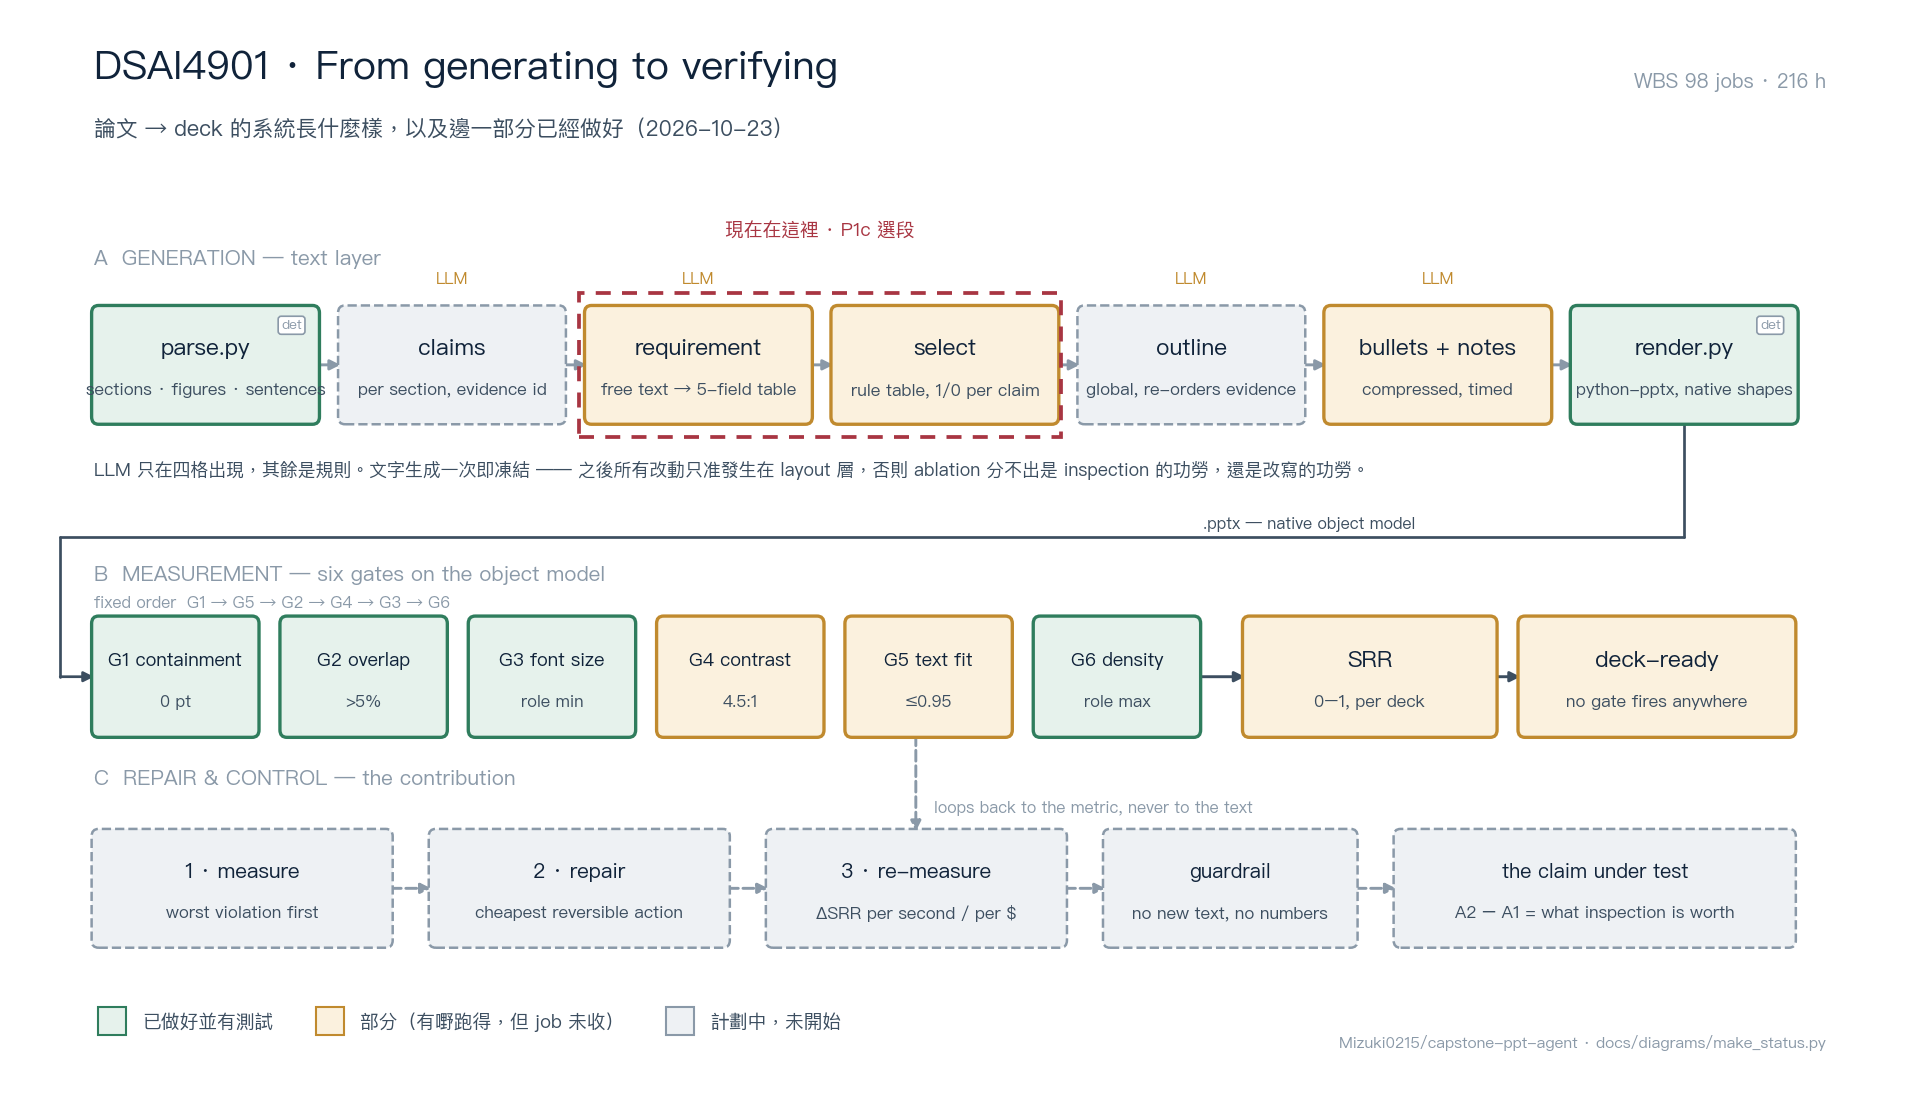
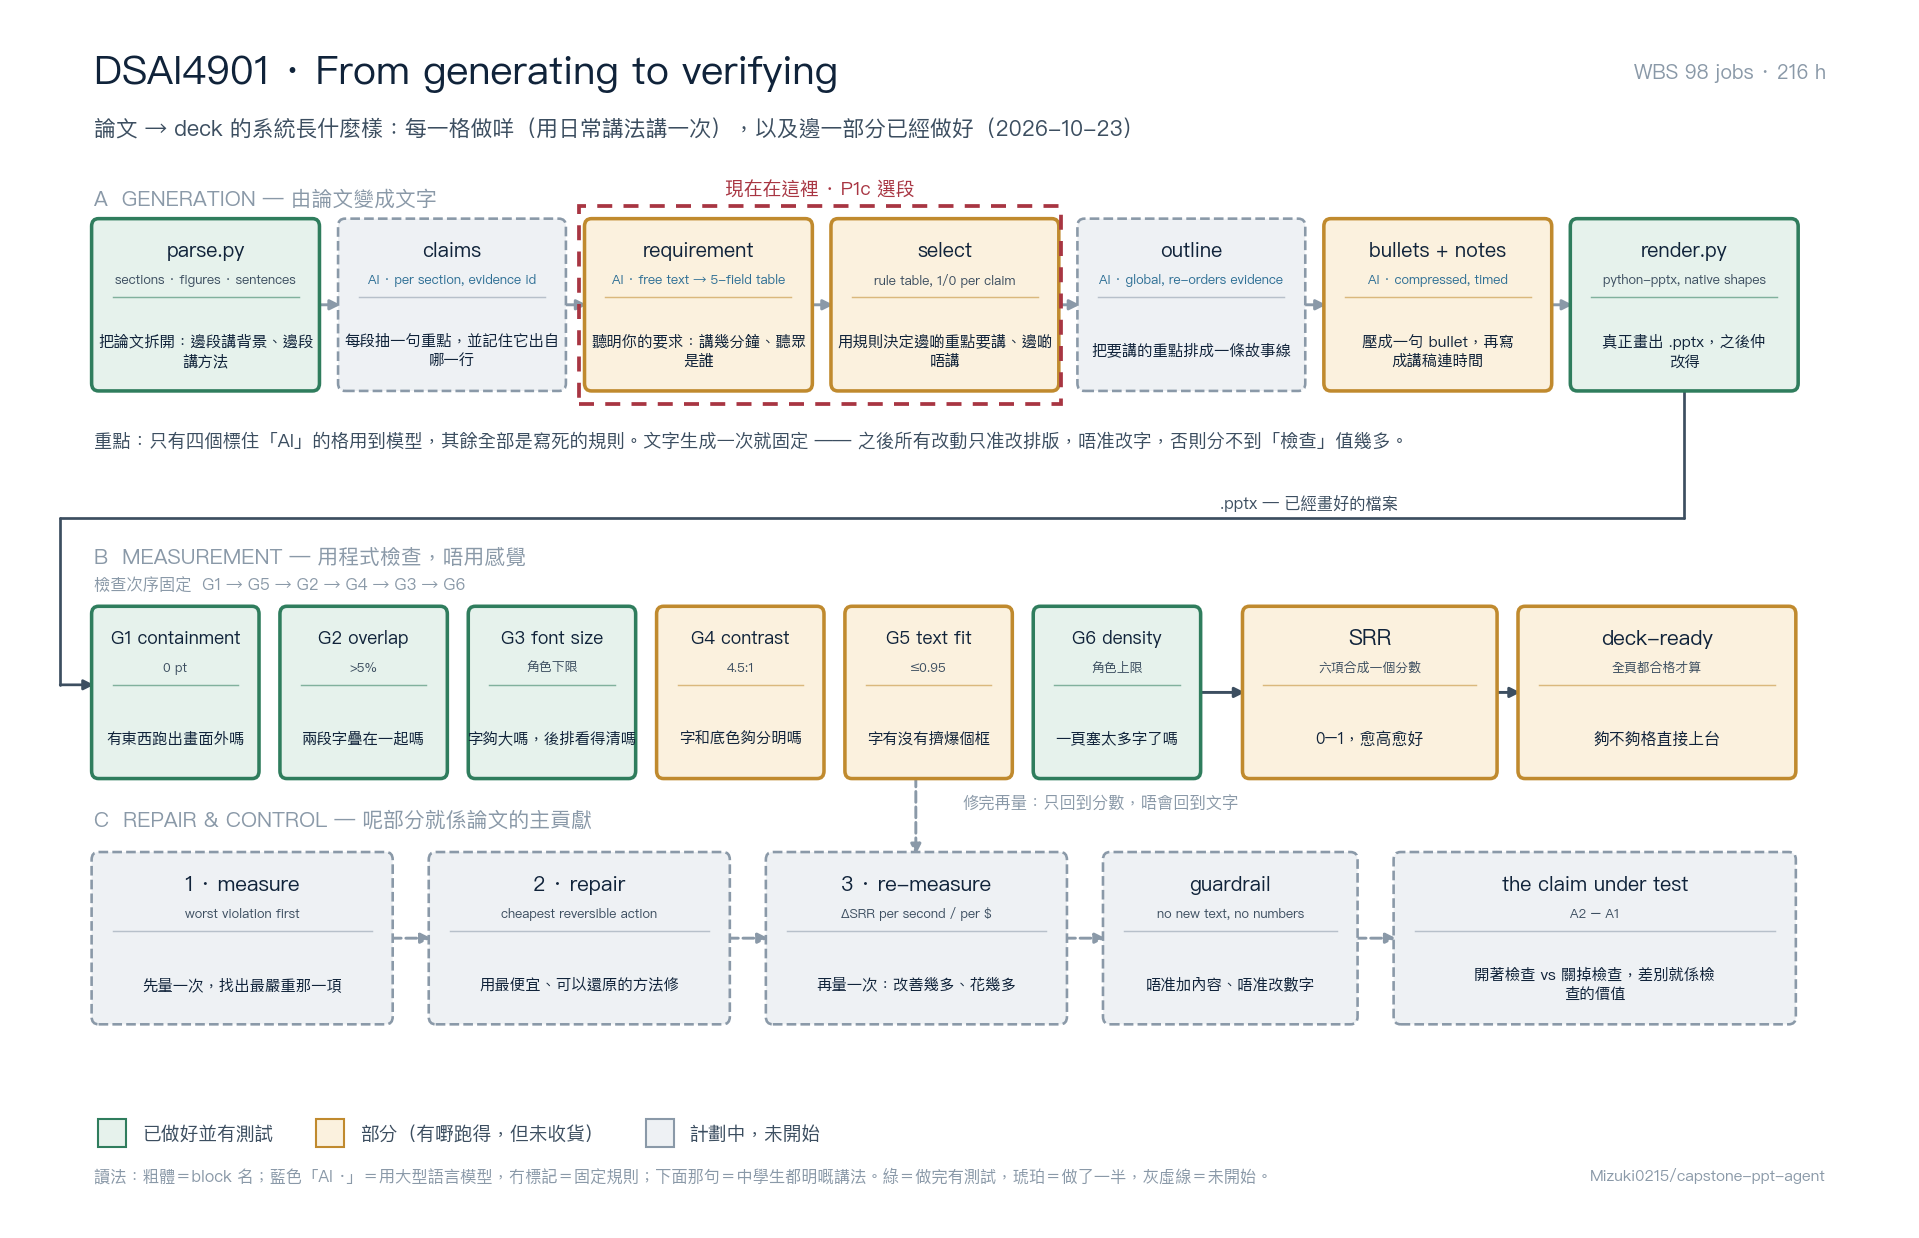
diagram: one plain-language line per block
Each card now says what the block does in words a secondary-school reader can
follow, with the model boundary marked 'AI' in teal rather than amber (amber
already means 'partially built').

diff --git a/docs/diagrams/make_status.py b/docs/diagrams/make_status.py
@@ -1,6 +1,9 @@
 #!/usr/bin/env python3
 """Status diagram for the capstone: what the system does, and what is built.
 
+Every block carries the plain-language answer to "what does it do", so the
+figure can be read by someone who has never seen a slide-generation pipeline.
+
 Regenerate with:
     MPLCONFIGDIR=/tmp/mpl python3 docs/diagrams/make_status.py
 
@@ -26,35 +29,41 @@ GREY = "#8A99A8"
 GREEN = "#2F7D5D"
 AMBER = "#C08A2E"
 RED = "#A83542"
+TEAL = "#2E6F95"   # the model marker; not amber, which already means "partial"
 WHITE = "#FFFFFF"
 
 plt.rcParams["font.family"] = ["PingFang HK", "Helvetica Neue", "Arial"]
 
 
-def box(ax, x, y, w, h, title, sub="", status="done", fs=11, subfs=8.2):
+def wrap_cjk(text, n):
+    """Chinese has no spaces, so wrap by character count."""
+    return "\n".join(text[i:i + n] for i in range(0, len(text), n))
+
+
+def card(ax, x, y, w, h, name, tech, plain, status="done", badge=None,
+         name_fs=9.6, plain_fs=7.4, wrap=14):
     fill = {"done": "#E6F2EC", "partial": "#FBF1DE", "planned": "#EEF1F4"}[status]
     edge = {"done": GREEN, "partial": AMBER, "planned": GREY}[status]
     ax.add_patch(mp.FancyBboxPatch(
         (x, y), w, h, boxstyle="round,pad=0.02,rounding_size=0.06",
-        linewidth=1.6 if status != "planned" else 1.2,
+        linewidth=1.7 if status != "planned" else 1.25,
         edgecolor=edge, facecolor=fill, zorder=2,
         linestyle="--" if status == "planned" else "solid",
     ))
-    if sub:
-        ax.text(x + w / 2, y + h * 0.64, title, ha="center", va="center",
-                fontsize=fs, color=INK, weight="semibold", zorder=3)
-        ax.text(x + w / 2, y + h * 0.28, sub, ha="center", va="center",
-                fontsize=subfs, color=INK2, zorder=3)
+    cx = x + w / 2
+    ax.text(cx, y + h - 0.24, name, ha="center", va="center", fontsize=name_fs,
+            color=INK, weight="bold", zorder=3)
+    if badge == "LLM":
+        tech = f"AI · {tech}"
+        tech_colour = TEAL
     else:
-        ax.text(x + w / 2, y + h / 2, title, ha="center", va="center",
-                fontsize=fs, color=INK, weight="semibold", zorder=3)
-
-
-def badge(ax, x, y, text, colour=GREY):
-    ax.text(x, y, text, ha="center", va="center", fontsize=6.6, color=colour,
-            weight="bold", zorder=5,
-            bbox=dict(boxstyle="round,pad=0.22", facecolor=WHITE, edgecolor=colour,
-                      linewidth=0.8))
+        tech_colour = INK2
+    ax.text(cx, y + h - 0.47, tech, ha="center", va="center", fontsize=6.2,
+            color=tech_colour, style="italic", zorder=3)
+    ax.plot([x + 0.16, x + w - 0.16], [y + h - 0.60] * 2, color=edge, lw=0.7, alpha=0.55,
+            zorder=3)
+    ax.text(cx, y + h * 0.22, wrap_cjk(plain, wrap), ha="center", va="center",
+            fontsize=plain_fs, color=INK, zorder=3, linespacing=1.45)
 
 
 def arrow(ax, x1, y1, x2, y2, colour=GREY, style="-", lw=1.4):
@@ -71,107 +80,121 @@ def elbow(ax, pts, colour=INK2, lw=1.3):
     arrow(ax, x1, y1, x2, y2, colour=colour, lw=lw)
 
 
-fig, ax = plt.subplots(figsize=(16, 9), dpi=150)
+fig, ax = plt.subplots(figsize=(16, 10.2), dpi=150)
 ax.set_xlim(0, 16)
-ax.set_ylim(0.55, 8.95)
+ax.set_ylim(1.15, 10.45)
 ax.axis("off")
 fig.patch.set_facecolor(WHITE)
 
 # ---------------------------------------------------------------- title ----
-ax.text(0.55, 8.55, "DSAI4901 · From generating to verifying", fontsize=19,
+ax.text(0.55, 10.02, "DSAI4901 · From generating to verifying", fontsize=19,
         color=INK, weight="bold")
-ax.text(0.55, 8.10, "論文 → deck 的系統長什麼樣，以及邊一部分已經做好（2026-10-23）",
-        fontsize=10.5, color=INK2)
-ax.text(15.45, 8.48, "WBS 98 jobs · 216 h", fontsize=9.5, color=GREY, ha="right")
+ax.text(0.55, 9.62, "論文 → deck 的系統長什麼樣：每一格做咩（用日常講法講一次），"
+                    "以及邊一部分已經做好（2026-10-23）", fontsize=10.5, color=INK2)
+ax.text(15.45, 10.06, "WBS 98 jobs · 216 h", fontsize=9.5, color=GREY, ha="right")
 
 # ================================================================= A 生成 ==
-ax.text(0.55, 7.05, "A  GENERATION — text layer", fontsize=10, color=GREY, weight="bold")
+ax.text(0.55, 9.06, "A  GENERATION — 由論文變成文字", fontsize=10, color=GREY,
+        weight="bold")
 
-y1, h1, w1 = 5.78, 0.92, 1.92
+y1, h1, w1 = 7.62, 1.32, 1.92
 xs = [0.55, 2.67, 4.79, 6.91, 9.03, 11.15, 13.27]
-box(ax, xs[0], y1, w1, h1, "parse.py", "sections · figures · sentences", "done")
-box(ax, xs[1], y1, w1, h1, "claims", "per section, evidence id", "planned")
-box(ax, xs[2], y1, w1, h1, "requirement", "free text → 5-field table", "partial")
-box(ax, xs[3], y1, w1, h1, "select", "rule table, 1/0 per claim", "partial")
-box(ax, xs[4], y1, w1, h1, "outline", "global, re-orders evidence", "planned")
-box(ax, xs[5], y1, w1, h1, "bullets + notes", "compressed, timed", "partial")
-box(ax, xs[6], y1, w1, h1, "render.py", "python-pptx, native shapes", "done")
+cards = [
+    ("parse.py", "sections · figures · sentences", "把論文拆開：邊段講背景、邊段講方法", "done", "det"),
+    ("claims", "per section, evidence id", "每段抽一句重點，並記住它出自哪一行", "planned", "LLM"),
+    ("requirement", "free text → 5-field table", "聽明你的要求：講幾分鐘、聽眾是誰", "partial", "LLM"),
+    ("select", "rule table, 1/0 per claim", "用規則決定邊啲重點要講、邊啲唔講", "partial", None),
+    ("outline", "global, re-orders evidence", "把要講的重點排成一條故事線", "planned", "LLM"),
+    ("bullets + notes", "compressed, timed", "壓成一句 bullet，再寫成講稿連時間", "partial", "LLM"),
+    ("render.py", "python-pptx, native shapes", "真正畫出 .pptx，之後仲改得", "done", "det"),
+]
+for (name, tech, plain, st, badge), x in zip(cards, xs):
+    card(ax, x, y1, w1, h1, name, tech, plain, st, badge)
 for a, b in zip(xs, xs[1:]):
     arrow(ax, a + w1, y1 + h1 / 2, b, y1 + h1 / 2)
-
-badge(ax, xs[0] + w1 - 0.22, y1 + h1 - 0.14, "det")
-badge(ax, xs[6] + w1 - 0.22, y1 + h1 - 0.14, "det")
-for i in (1, 2, 4, 5):
-    ax.text(xs[i] + w1 / 2, y1 + h1 + 0.17, "LLM", ha="center", va="bottom",
-            fontsize=7.6, color=AMBER, weight="bold")
 
 now = plt.Rectangle((4.72, y1 - 0.12), 4.15, h1 + 0.24, fill=False,
                     edgecolor=RED, lw=1.8, linestyle=(0, (4, 3)), zorder=4)
 ax.add_patch(now)
-ax.text(6.79, y1 + h1 + 0.58, "現在在這裡 · P1c 選段", ha="center", fontsize=9,
+ax.text(6.79, y1 + h1 + 0.20, "現在在這裡 · P1c 選段", ha="center", fontsize=9,
         color=RED, weight="bold")
 
-ax.text(0.55, 5.35,
-        "LLM 只在四格出現，其餘是規則。文字生成一次即凍結 —— 之後所有改動只准發生在 layout 層，"
-        "否則 ablation 分不出是 inspection 的功勞，還是改寫的功勞。",
-        fontsize=8.6, color=INK2)
+ax.text(0.55, 7.16,
+        "重點：只有四個標住「AI」的格用到模型，其餘全部是寫死的規則。文字生成一次就固定 —— 之後所有改動只准改排版，"
+        "唔准改字，否則分不到「檢查」值幾多。", fontsize=8.8, color=INK2)
 
 # .pptx 由 render 交去量度層：走 bus，避免一條長斜線橫跨整個圖
-elbow(ax, [(14.23, y1), (14.23, 4.85), (0.26, 4.85), (0.26, 3.72), (0.55, 3.72)])
-ax.text(11.0, 4.92, ".pptx — native object model", fontsize=7.8, color=INK2, ha="center")
+elbow(ax, [(14.23, y1), (14.23, 6.60), (0.26, 6.60), (0.26, 5.28), (0.55, 5.28)])
+ax.text(11.0, 6.67, ".pptx — 已經畫好的檔案", fontsize=7.8, color=INK2, ha="center")
 
 # ================================================================= B 量度 ==
-ax.text(0.55, 4.50, "B  MEASUREMENT — six gates on the object model", fontsize=10,
+ax.text(0.55, 6.24, "B  MEASUREMENT — 用程式檢查，唔用感覺", fontsize=10,
         color=GREY, weight="bold")
-ax.text(0.55, 4.28, "fixed order  G1 → G5 → G2 → G4 → G3 → G6", fontsize=7.8, color=GREY)
+ax.text(0.55, 6.02, "檢查次序固定  G1 → G5 → G2 → G4 → G3 → G6", fontsize=7.8, color=GREY)
 
-yg, hg = 3.25, 0.94
-gates = [("G1 containment", "0 pt", "done"), ("G2 overlap", ">5%", "done"),
-         ("G3 font size", "role min", "done"), ("G4 contrast", "4.5:1", "partial"),
-         ("G5 text fit", "≤0.95", "partial"), ("G6 density", "role max", "done")]
+yg, hg = 4.56, 1.32
+gates = [
+    ("G1 containment", "0 pt", "有東西跑出畫面外嗎", "done"),
+    ("G2 overlap", ">5%", "兩段字疊在一起嗎", "done"),
+    ("G3 font size", "角色下限", "字夠大嗎，後排看得清嗎", "done"),
+    ("G4 contrast", "4.5:1", "字和底色夠分明嗎", "partial"),
+    ("G5 text fit", "≤0.95", "字有沒有擠爆個框", "partial"),
+    ("G6 density", "角色上限", "一頁塞太多字了嗎", "done"),
+]
 gw, gap = 1.40, 0.22
-for i, (name, thr, st) in enumerate(gates):
-    box(ax, 0.55 + i * (gw + gap), yg, gw, hg, name, thr, st, fs=8.9, subfs=8.0)
+for i, (name, thr, plain, st) in enumerate(gates):
+    card(ax, 0.55 + i * (gw + gap), yg, gw, hg, name, thr, plain, st,
+         name_fs=8.6, plain_fs=7.4, wrap=12)
 
-box(ax, 10.45, yg, 2.15, hg, "SRR", "0–1, per deck", "partial", fs=11)
-box(ax, 12.82, yg, 2.35, hg, "deck-ready", "no gate fires anywhere", "partial", fs=11)
+card(ax, 10.45, yg, 2.15, hg, "SRR", "六項合成一個分數", "0–1，愈高愈好", "partial",
+     name_fs=10.5, plain_fs=7.6, wrap=11)
+card(ax, 12.82, yg, 2.35, hg, "deck-ready", "全頁都合格才算", "夠不夠格直接上台", "partial",
+     name_fs=10, plain_fs=7.6, wrap=11)
 arrow(ax, 9.90, yg + hg / 2, 10.45, yg + hg / 2, colour=INK2)
 arrow(ax, 12.60, yg + hg / 2, 12.82, yg + hg / 2, colour=INK2)
 
 # ================================================================= C 修復 ==
-ax.text(0.55, 2.85, "C  REPAIR & CONTROL — the contribution", fontsize=10,
+ax.text(0.55, 4.16, "C  REPAIR & CONTROL — 呢部分就係論文的主貢獻", fontsize=10,
         color=GREY, weight="bold")
-yc, hc = 1.55, 0.92
-box(ax, 0.55, yc, 2.55, hc, "1 · measure", "worst violation first", "planned", fs=10)
-box(ax, 3.45, yc, 2.55, hc, "2 · repair", "cheapest reversible action", "planned", fs=10)
-box(ax, 6.35, yc, 2.55, hc, "3 · re-measure", "ΔSRR per second / per $", "planned", fs=10)
-box(ax, 9.25, yc, 2.15, hc, "guardrail", "no new text, no numbers", "planned", fs=9.6)
-box(ax, 11.75, yc, 3.42, hc, "the claim under test",
-    "A2 − A1 = what inspection is worth", "planned", fs=9.6)
+yc, hc = 2.62, 1.32
+card(ax, 0.55, yc, 2.55, hc, "1 · measure", "worst violation first",
+     "先量一次，找出最嚴重那一項", "planned", name_fs=10, wrap=15)
+card(ax, 3.45, yc, 2.55, hc, "2 · repair", "cheapest reversible action",
+     "用最便宜、可以還原的方法修", "planned", name_fs=10, wrap=16)
+card(ax, 6.35, yc, 2.55, hc, "3 · re-measure", "ΔSRR per second / per $",
+     "再量一次：改善幾多、花幾多", "planned", name_fs=10, wrap=16)
+card(ax, 9.25, yc, 2.15, hc, "guardrail", "no new text, no numbers",
+     "唔准加內容、唔准改數字", "planned", name_fs=9.6, wrap=12)
+card(ax, 11.75, yc, 3.42, hc, "the claim under test", "A2 − A1",
+     "開著檢查 vs 關掉檢查，差別就係檢查的價值", "planned", name_fs=9.6, wrap=18)
 for x in (3.10, 6.00, 8.90, 11.40):
     arrow(ax, x, yc + hc / 2, x + 0.35, yc + hc / 2, colour=GREY, style="--")
 
 arrow(ax, 7.62, yg, 7.62, yc + hc, colour=GREY, style="--")
-ax.text(7.78, 2.62, "loops back to the metric, never to the text", fontsize=7.8, color=GREY)
+ax.text(8.02, 4.30, "修完再量：只回到分數，唔會回到文字", fontsize=7.8, color=GREY)
 
 # ================================================================ legend ===
 handles = [
     Line2D([0], [0], marker="s", color="none", markerfacecolor="#E6F2EC",
            markeredgecolor=GREEN, markersize=13, label="已做好並有測試"),
     Line2D([0], [0], marker="s", color="none", markerfacecolor="#FBF1DE",
-           markeredgecolor=AMBER, markersize=13, label="部分（有嘢跑得，但 job 未收）"),
+           markeredgecolor=AMBER, markersize=13, label="部分（有嘢跑得，但未收貨）"),
     Line2D([0], [0], marker="s", color="none", markerfacecolor="#EEF1F4",
            markeredgecolor=GREY, markersize=13, label="計劃中，未開始"),
 ]
-leg = ax.legend(handles=handles, loc="lower left", bbox_to_anchor=(0.025, 0.02),
+leg = ax.legend(handles=handles, loc="lower left", bbox_to_anchor=(0.025, 0.04),
                 frameon=False, fontsize=9, ncol=3, handletextpad=0.6,
                 columnspacing=2.0)
 for t in leg.get_texts():
     t.set_color(INK2)
 
-ax.text(15.45, 0.72,
-        "Mizuki0215/capstone-ppt-agent · docs/diagrams/make_status.py",
-        ha="right", fontsize=7.5, color=GREY)
+ax.text(0.55, 1.36,
+        "讀法：粗體＝block 名；藍色「AI ·」＝用大型語言模型，冇標記＝固定規則；"
+        "下面那句＝中學生都明嘅講法。綠＝做完有測試，琥珀＝做了一半，灰虛線＝未開始。",
+        fontsize=7.8, color=GREY)
+
+ax.text(15.45, 1.36, "Mizuki0215/capstone-ppt-agent",
+        ha="right", fontsize=7.4, color=GREY)
 
 fig.savefig(OUT, dpi=150, facecolor=WHITE, bbox_inches="tight", pad_inches=0.2)
 print("wrote", OUT)
